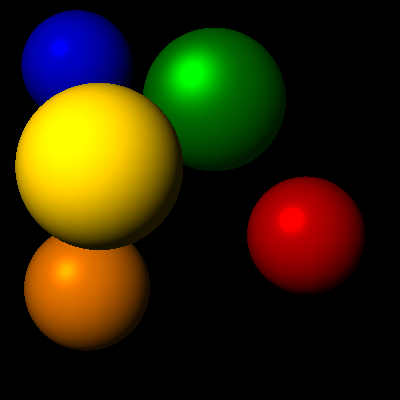
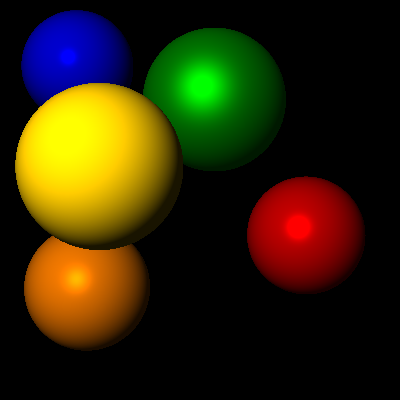
Fixed normals

diff --git a/src/scene.cpp b/src/scene.cpp
@@ -63,17 +63,17 @@ Color Scene::trace(const Ray &ray)
 
     Color color = material->color * material->ka * totalIntensity;
     for(auto light : lights) {
-        Vector lightVector = hit - light->position;
+        Vector lightVector = light->position - hit;
 
         Color diffuseColor = material->color * material->kd;
+        diffuseColor *= std::clamp(N.dot(lightVector.normalized()), 0.0, 1.0);
         diffuseColor *= light->diffusePower/ (lightVector.length() * lightVector.length());
-        diffuseColor *= std::clamp(lightVector.normalized().dot(N), 0.0, 1.0);
         color += diffuseColor;
 
         Color specularColor = material->color * material->ks;
-        Vector H = (lightVector + V).normalized();
+        Vector H = (lightVector.normalized() + V).normalized();
         double NdotH = std::clamp(N.dot(H), 0.0, 1.0);
-        specularColor *= pow(NdotH, 2.0 * material->n);;
+        specularColor *= pow(NdotH, 2.0 * material->n);
         specularColor *= light->specularPower / (lightVector.length() * lightVector.length());
         color += specularColor;
     }

diff --git a/src/sphere.cpp b/src/sphere.cpp
@@ -56,7 +56,7 @@ Hit Sphere::intersect(const Ray &ray)
     * Insert calculation of the sphere's normal at the intersection point.
     ****************************************************/
     Vector intersectionPoint = ray.O + t * ray.D;
-    Vector N = (position - intersectionPoint).normalized();
+    Vector N = (intersectionPoint - position).normalized();
 
     return Hit(t,N);
 }
